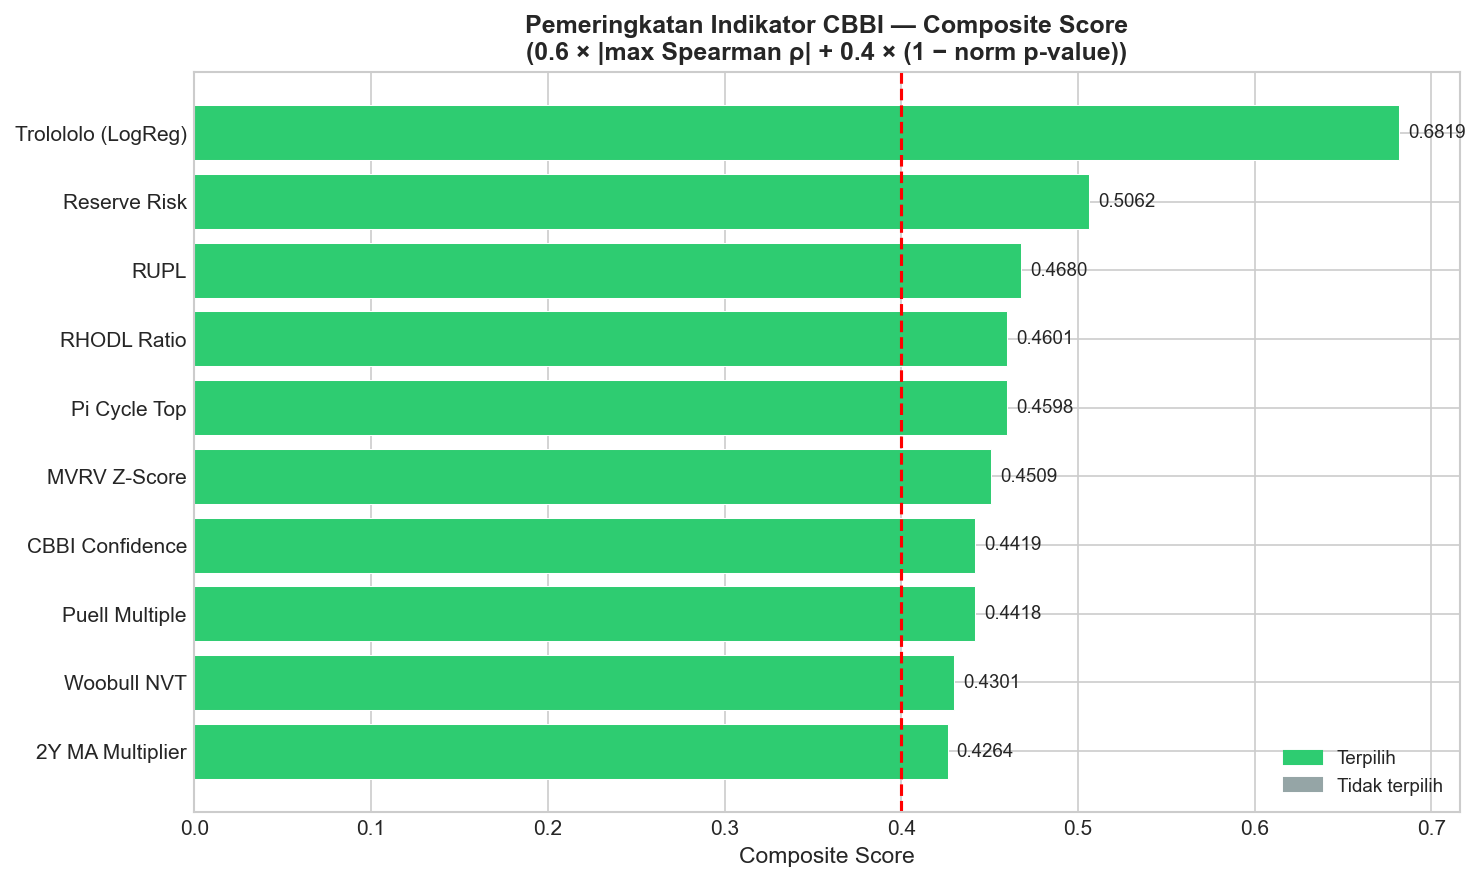
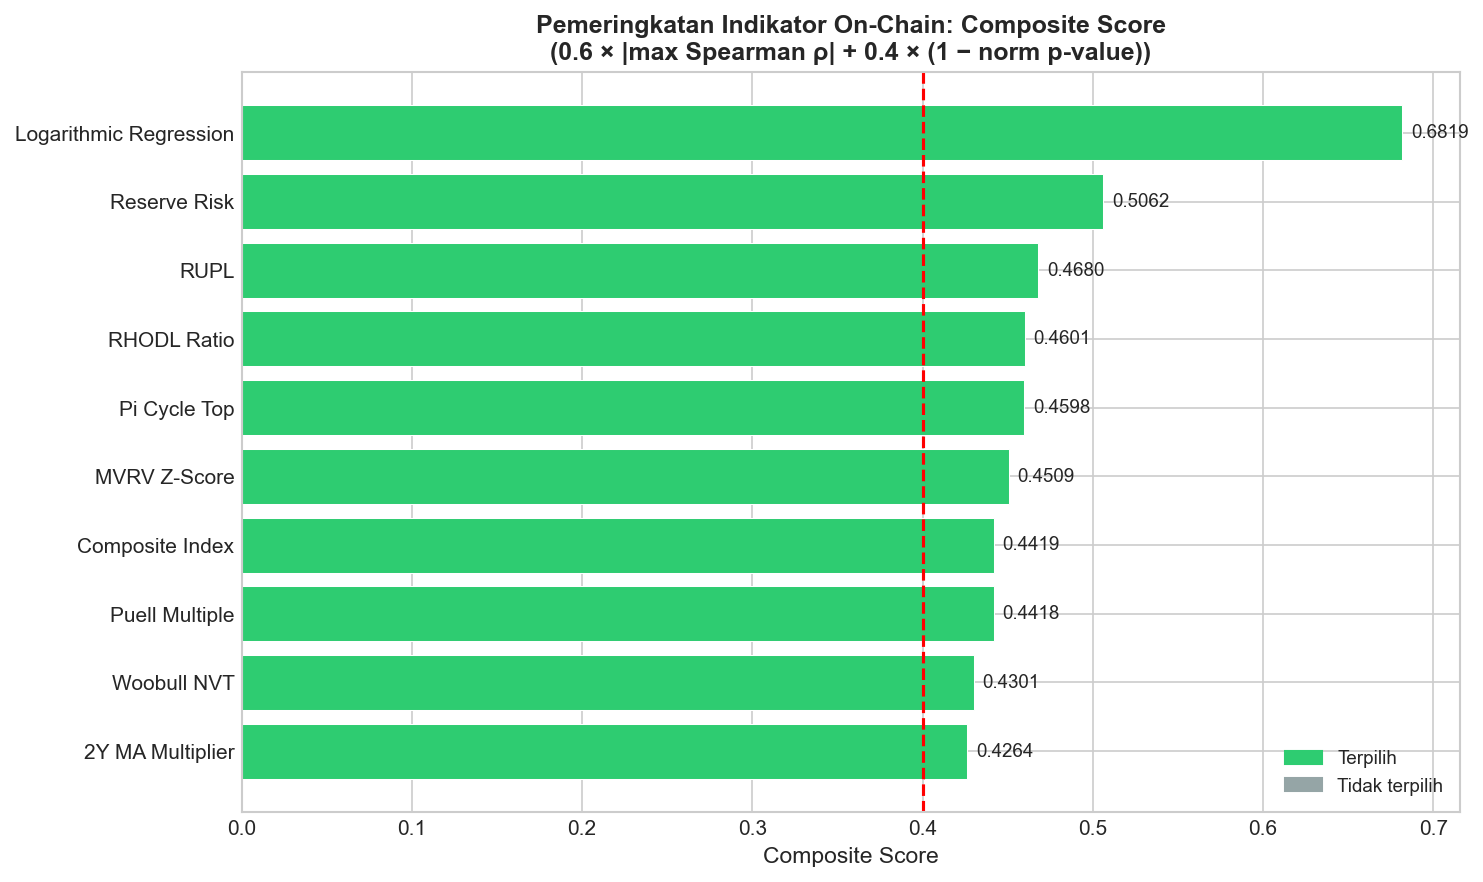
refactor: rename CBBI references to On-Chain and Trolololo to Logarithmic Regression in analysis scripts and charts

diff --git a/src/analysis/feature_selector.py b/src/analysis/feature_selector.py
@@ -71,13 +71,13 @@ INDICATOR_COLS = [
 
 # Label tampilan untuk setiap indikator
 INDICATOR_LABELS = {
-    "cbbi_confidence":  "CBBI Confidence",
+    "cbbi_confidence":  "Composite Index",
     "pi_cycle":         "Pi Cycle Top",
     "rupl":             "RUPL",
     "rhodl_ratio":      "RHODL Ratio",
     "puell_multiple":   "Puell Multiple",
     "two_year_ma_mult": "2Y MA Multiplier",
-    "trolololo":        "Trolololo (LogReg)",
+    "trolololo":        "Logarithmic Regression",
     "mvrv_zscore":      "MVRV Z-Score",
     "reserve_risk":     "Reserve Risk",
     "woobull":          "Woobull NVT",
@@ -439,12 +439,12 @@ def generate_visualizations(
         annot_kws={"size": 9}, ax=ax,
     )
     ax.set_title(
-        "Korelasi Spearman: Indikator CBBI vs Forward Return BTC\n"
+        "Korelasi Spearman: Indikator On-Chain vs Forward Return BTC\n"
         "(Data In-Sample 2012–2020)",
         fontsize=13, fontweight="bold", pad=15,
     )
     ax.set_xlabel("Lag Window", fontsize=11)
-    ax.set_ylabel("Indikator CBBI", fontsize=11)
+    ax.set_ylabel("Indikator On-Chain", fontsize=11)
     plt.tight_layout()
     out1 = CHARTS_DIR / "spearman_heatmap.png"
     fig.savefig(out1, dpi=150, bbox_inches="tight")
@@ -502,7 +502,7 @@ def generate_visualizations(
                for c in cond_order]
     fig.legend(handles=patches, loc="lower center", ncol=4, fontsize=10, title="Kondisi Pasar")
     fig.suptitle(
-        "Distribusi Nilai Indikator CBBI per Kondisi Pasar\n"
+        "Distribusi Nilai Indikator On-Chain per Kondisi Pasar\n"
         "(Top-6 Indikator | Data In-Sample 2012–2020)",
         fontsize=13, fontweight="bold", y=1.01,
     )
@@ -529,7 +529,7 @@ def generate_visualizations(
                linewidth=1.5, label=f"Threshold seleksi ({SELECTION_COMPOSITE_THRESHOLD})")
     ax.set_xlabel("Composite Score", fontsize=11)
     ax.set_title(
-        "Pemeringkatan Indikator CBBI — Composite Score\n"
+        "Pemeringkatan Indikator On-Chain: Composite Score\n"
         "(0.6 × |max Spearman ρ| + 0.4 × (1 − norm p-value))",
         fontsize=12, fontweight="bold",
     )

diff --git a/reports/feature_selection_report.md b/reports/feature_selection_report.md
@@ -1,6 +1,6 @@
 # Laporan Seleksi Fitur — Fase 2
 
-**Dibuat:** 2026-07-15 00:40:04
+**Dibuat:** 2026-07-15 12:04:06
 **Filter data:** In-Sample (2012-01-01 – 2020-12-31)
 **Metode:** Korelasi Spearman × 5 lag window + Distribusi Kruskal-Wallis
 
@@ -33,13 +33,13 @@ pada minimal satu lag window. Minimum 3 indikator terpilih.
 
 | Rank | Indikator | Composite Score | Best Lag | Spearman ρ | p-value | Selected |
 |---|---|---|---|---|---|---|
-| 1 | Trolololo (LogReg) | 0.6819 | 90d | -0.4698 | 0.0000 | ✅ |
+| 1 | Logarithmic Regression | 0.6819 | 90d | -0.4698 | 0.0000 | ✅ |
 | 2 | Reserve Risk | 0.5062 | 90d | -0.1770 | 0.0000 | ✅ |
 | 3 | RUPL | 0.4680 | 90d | +0.1133 | 0.0000 | ✅ |
 | 4 | RHODL Ratio | 0.4601 | 90d | -0.1001 | 0.0000 | ✅ |
 | 5 | Pi Cycle Top | 0.4598 | 90d | +0.0997 | 0.0000 | ✅ |
 | 6 | MVRV Z-Score | 0.4509 | 90d | +0.0848 | 0.0000 | ✅ |
-| 7 | CBBI Confidence | 0.4419 | 90d | -0.0700 | 0.0001 | ✅ |
+| 7 | Composite Index | 0.4419 | 90d | -0.0700 | 0.0001 | ✅ |
 | 8 | Puell Multiple | 0.4418 | 7d | +0.0697 | 0.0001 | ✅ |
 | 9 | Woobull NVT | 0.4301 | 90d | -0.0523 | 0.0031 | ✅ |
 | 10 | 2Y MA Multiplier | 0.4264 | 7d | +0.0481 | 0.0059 | ✅ |
@@ -52,7 +52,7 @@ pada minimal satu lag window. Minimum 3 indikator terpilih.
 Sebanyak **10 indikator** memenuhi kriteria seleksi:
 
 
-### Trolololo (LogReg)
+### Logarithmic Regression
 
 - **Composite Score:** 0.6819
 - **Korelasi terkuat:** Spearman ρ = -0.4698 pada lag **90 hari** (p = 0.0000)
@@ -100,7 +100,7 @@ Sebanyak **10 indikator** memenuhi kriteria seleksi:
 - **Distribusi antar kondisi pasar:** Kruskal-Wallis H=2365.39, p=0.0000 (signifikan)
 
 
-### CBBI Confidence
+### Composite Index
 
 - **Composite Score:** 0.4419
 - **Korelasi terkuat:** Spearman ρ = -0.0700 pada lag **90 hari** (p = 0.0001)
